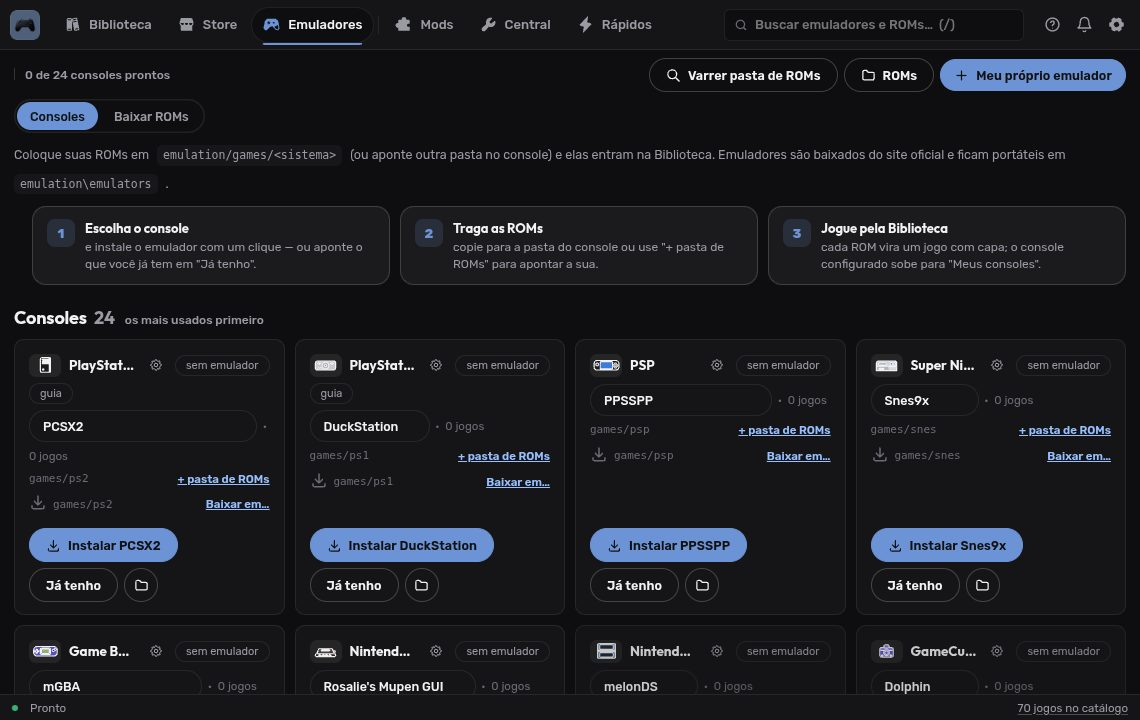
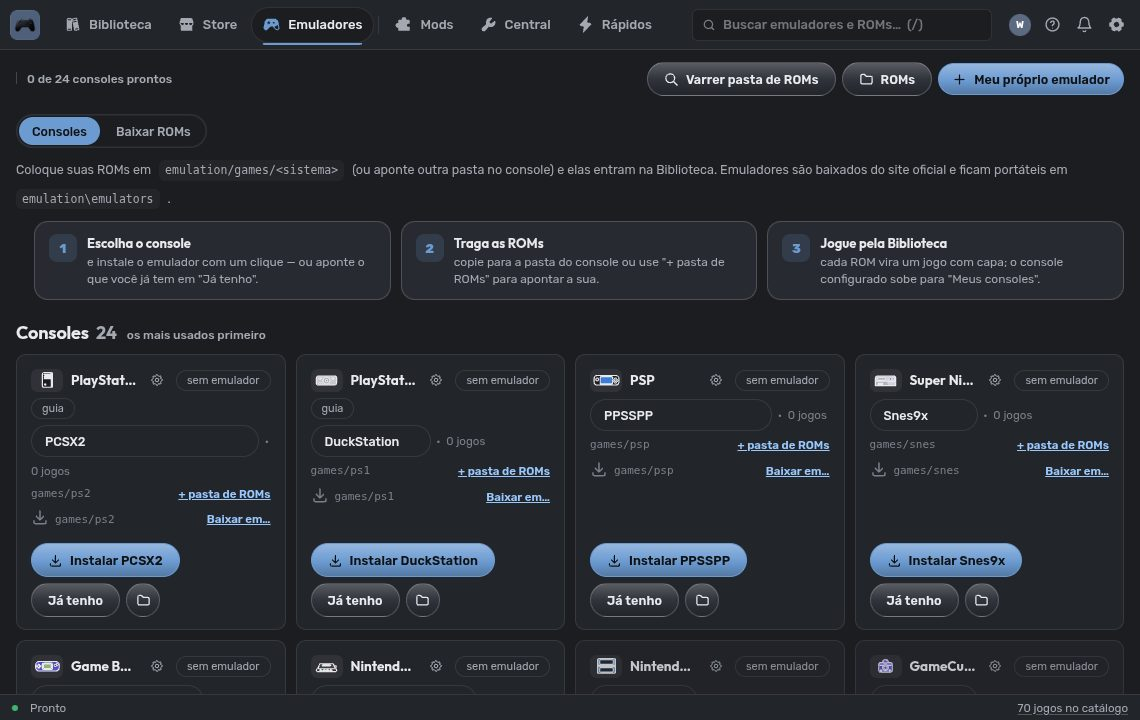
Ludrix 4.0.26

diff --git a/src/renderer/base.css b/src/renderer/base.css
@@ -246,6 +246,7 @@ html body.bs[data-face] .frow:first-child,html body.bs[data-face] :not(.frow)+.f
 html body.bs[data-face] .frow:not(:has(+.frow)){border-bottom-left-radius:var(--r);border-bottom-right-radius:var(--r)}
 html body.bs[data-face] .sec>:not(h3):not(p):not(.frow)+.frow{margin-top:12px}
 html body.bs[data-face] .frow .l{flex:1 1 140px;min-width:120px;display:flex;flex-direction:column;gap:2px}
+html body.bs[data-face] .frow[style*="flex-direction:column"] .l{flex:none;width:100%}
 html body.bs[data-face] .frow{flex-wrap:wrap}
 html body.bs[data-face] .frow .l b{font:500 13px/1.35 var(--font-text);color:var(--text)}
 html body.bs[data-face] .frow .l span{font-size:12px;color:var(--muted2);line-height:1.45;max-width:64ch}
@@ -472,18 +473,6 @@ html body.bs[data-face] .card .cov img{transition:opacity .25s ease-out}
 html body.bs[data-face] .rb,html body.bs[data-face] .tabs button,html body.bs[data-face] .stabs button{transition:background .15s,color .15s,border-color .15s}
 html body.bs[data-face] .sw::after{transition:transform .16s var(--ease),background .15s}
 html[data-anim="off"] body.bs[data-face] *{animation:none!important;transition:none!important}
-.fog{position:absolute;inset:0;z-index:0;overflow:hidden;pointer-events:none;contain:strict}
-html body.bs.fogon[data-face] .rail{position:relative;background:color-mix(in srgb,var(--bg2) 55%,transparent)}
-.fog i{position:absolute;top:0;bottom:0;left:0;width:calc(100% + 1200px);will-change:transform;-webkit-mask-repeat:repeat;mask-repeat:repeat}
-.fog i:nth-child(1){background:color-mix(in oklch,var(--accent) 80%,#fff);-webkit-mask-image:url(/ui/fog1.svg);mask-image:url(/ui/fog1.svg);-webkit-mask-size:600px 600px;mask-size:600px 600px;opacity:calc(var(--fog,.3) * .34);animation:fogA 80s linear infinite}
-.fog i:nth-child(2){background:color-mix(in oklch,var(--accent) 55%,#22d3ee);-webkit-mask-image:url(/ui/fog2.svg);mask-image:url(/ui/fog2.svg);-webkit-mask-size:1100px 1100px;mask-size:1100px 1100px;opacity:calc(var(--fog,.3) * .26);animation:fogB 130s linear infinite}
-@keyframes fogA{to{transform:translateX(-1200px)}}
-@keyframes fogB{from{transform:translateX(-1100px)}to{transform:translateX(0)}}
-html[data-light="1"] .fog i{mix-blend-mode:multiply}
-html[data-light="1"] .fog i:nth-child(1){background:var(--accent);opacity:calc(var(--fog,.3) * .24)}
-html[data-light="1"] .fog i:nth-child(2){opacity:calc(var(--fog,.3) * .18)}
-html.mono .fog{display:none}
-html[data-anim="off"] .fog i{animation:none!important}
 html body.bs[data-face] main{background:transparent}
 html body.bs.rfloat[data-face]{--side:240px;--fgap:10px}
 html body.bs.rfloat[data-face][data-layout=rail]{--side:86px}
@@ -715,3 +704,47 @@ html body.bs[data-face] .fview .seg.fsort button{height:26px;padding:0 10px;bord
 html body.bs[data-face] .fview .seg.fsort button:hover{color:var(--text);border-color:var(--line2)}
 html body.bs[data-face] .fview .seg.fsort button.on{background:var(--accent);border-color:var(--accent);color:var(--on-accent)}
 html body.bs[data-face] .fsb h6{margin:10px 4px 6px;font:600 11px var(--font-text);letter-spacing:.4px;text-transform:uppercase;color:var(--muted2)}
+
+html body.bs[data-face] .view{padding:12px 22px 32px}
+html body.bs[data-face]:is([data-layout=rail],[data-layout=top]) .view{padding:0 16px 28px}
+html body.bs[data-face]:is([data-layout=rail],[data-layout=top]) .h1{margin:0 -16px 8px;padding:10px 16px;gap:8px}
+html body.bs[data-face][data-layout=top] .h1{padding-top:12px}
+html body.bs[data-face] .h1 .qchips,html body.bs[data-face] .h1 .chips{gap:4px}
+html body.bs[data-face] .fchips{margin:2px 0 16px;gap:8px}
+html body.bs[data-face] .ggh{padding:12px 0 10px}
+html body.bs[data-face]:is([data-layout=rail],[data-layout=top]) .ggh{top:0;padding:12px 0 10px}
+html body.bs[data-face]:is([data-layout=rail],[data-layout=top]) .grid{gap:18px 12px;padding-top:4px}
+html body.bs[data-face] .grid+.ggh,html body.bs[data-face] .more+.ggh{margin-top:10px}
+html body.bs[data-face] .lsth{margin:6px 0 4px;padding:0 10px 8px 4px}
+html body.bs[data-face] .libwrap.pw .libmain .h1{padding-right:12px}
+html body.bs[data-face] .dclose{top:calc(var(--tb,0px) + var(--toph,0px) + 16px)}
+html body.bs[data-face] .dhead{gap:14px;padding-top:20px}
+html body.bs[data-face] .dhead .acts{margin-top:6px}
+html body.bs[data-face] .dmain{margin:36px 40px 0 36px}
+html body.bs[data-face] .dmain .dtabs{margin:0 0 22px}
+html body.bs[data-face] .dpane .desc p{margin:0 0 12px}
+html body.bs[data-face] .dpane .desc p:last-child{margin-bottom:0}
+html body.bs[data-face] .dsec{margin-top:26px}
+html body.bs[data-face] .dsec h3{margin-bottom:10px}
+html body.bs[data-face] .sec{margin-bottom:28px}
+html body.bs[data-face] .sec>h3{margin-bottom:12px}
+html body.bs[data-face] .sec>p{margin:-4px 0 14px}
+html body.bs[data-face] .frow{gap:20px}
+html body.bs[data-face] .frow .l{gap:3px}
+html body.bs[data-face]:is([data-layout=rail],[data-layout=top]) .gpanel .ghead{margin-top:18px}
+html body.bs[data-face]:is([data-layout=rail],[data-layout=top]) .gpanel .gkv{margin:12px 16px 0}
+html body.bs[data-face]:is([data-layout=rail],[data-layout=top]) .gpanel .gkv div{padding:8px 0}
+html body.bs[data-face] .gpanel .gtags{margin-top:8px}
+html body.bs[data-face] .toast{gap:12px}
+html body.bs.acr.acrdeep .card .cov{box-shadow:0 0 0 1px var(--line2)}
+html body.bs.acr.acrdeep :is(.frow,.sec .box,.gpanel,.fpanel,.modal .box,.bellpop,.ctx){background:var(--card-solid,var(--card))}
+html body.bs.acr.acrdeep :is(.h1,.ggh,.status,header.top,.rail){backdrop-filter:blur(18px) saturate(1.2);-webkit-backdrop-filter:blur(18px) saturate(1.2)}
+html body.bs.acr.acrdeep .card h4,html body.bs.acr.acrdeep .card .sub,html body.bs.acr.acrdeep .ggh b{text-shadow:0 1px 2px color-mix(in srgb,var(--bg-solid,var(--bg)) 70%,transparent)}
+
+html body.bs[data-face]{--g-top:color-mix(in srgb,var(--accent) 72%,#fff);--g-bot:color-mix(in srgb,var(--accent) 78%,#000);--g2-top:color-mix(in srgb,var(--card2) 80%,#fff);--g2-bot:color-mix(in srgb,var(--card2) 70%,#000)}
+html body.bs[data-face] .btn.p,html body.bs[data-face] .btn.g,html body.bs[data-face] .seg button.on,html body.bs[data-face] .fview .seg.fsort button.on{background:linear-gradient(180deg,var(--g-top),var(--accent) 55%,var(--g-bot))}
+html body.bs[data-face] .btn.s,html body.bs[data-face] .seg button,html body.bs[data-face] .h1 .btn.xs,html body.bs[data-face] .h1 .dd,html body.bs[data-face] .h1 .filt>.btn,html body.bs[data-face] .h1 .chip.on,html body.bs[data-face] .fview .seg.fsort button{background:linear-gradient(180deg,var(--g2-top),var(--card2) 50%,var(--g2-bot))}
+html body.bs[data-face] .btn.p:hover,html body.bs[data-face] .btn.g:hover{filter:brightness(1.07)}
+html body.bs[data-face] .btn.s:hover,html body.bs[data-face] .seg button:hover,html body.bs[data-face] .h1 .btn.xs:hover,html body.bs[data-face] .h1 .filt>.btn:hover{filter:brightness(1.12)}
+html body.bs[data-face] .btn:active,html body.bs[data-face] .seg button:active{filter:brightness(.94)}
+html body.bs[data-face]:is([data-layout=rail],[data-layout=top]) .h1 .btn.xs.p{background:linear-gradient(180deg,color-mix(in srgb,var(--text) 86%,var(--bg)),var(--text) 55%,color-mix(in srgb,var(--text) 82%,#000))}

diff --git a/src/renderer/settings.js b/src/renderer/settings.js
@@ -90,13 +90,13 @@ async function renderSettings(fresh) {
     <div class="frow"><div class="l"><b>Tamanho do texto</b><span>Só as letras, sem mexer no resto. Bom para ler de longe sem aumentar tudo</span></div>${cfgSel('text_size', [[-2, 'Bem menor'], [-1, 'Menor'], [0, 'Normal'], [1, 'Maior'], [2, 'Bem maior']], c.text_size || 0)}</div>
     <div class="frow"><div class="l"><b>Densidade</b><span>Compacto aproxima os cartões e reduz espaçamentos; útil em telas pequenas</span></div>${cfgSel('density', [['normal', 'Normal'], ['compact', 'Compacto']], c.density || 'normal')}</div>`], { p: 'Ajusta o tamanho de textos, botões e capas para qualquer tela, de um notebook 1366×768 a uma TV 4K. <b>Auto</b> acompanha o tamanho da janela.' }),
     efeitos: () => sec('efeitos', 'Efeitos', [`
-    ${c.os === 'windows' ? `<div class="frow"><div class="l"><b>Vidro fosco${restartTag('acrylic')}</b><span>Janela translúcida com desfoque do Windows 11 (acrílico), por trás de toda a interface. Pesa na placa de vídeo ao rolar a biblioteca; em Windows 10 ou com alto contraste fica opaco</span></div><button class="sw ${c.acrylic ? 'on' : ''}" onclick="setCfg({acrylic:!S.config.acrylic})"></button></div>` : ''}
+    ${c.os === 'windows' ? `<div class="frow"><div class="l"><b>Vidro fumê${restartTag('acrylic')}</b><span>O que está atrás da janela aparece borrado, como vidro fumê (acrílico do Windows 11). Pesa na placa de vídeo ao rolar a biblioteca; em Windows 10 ou com alto contraste fica opaco</span></div><button class="sw ${c.acrylic ? 'on' : ''}" onclick="setCfg({acrylic:!S.config.acrylic})"></button></div>
+    ${c.acrylic ? `<div class="frow"><div class="l"><b>Transparência do vidro</b><span>Quanto do fundo aparece. Acima de 50% os cartões e painéis ficam mais sólidos para o texto continuar legível</span></div><label class="zoom"><input type="range" min="0" max="70" step="2" value="${c.glass_alpha ?? 34}" oninput="S.config.glass_alpha=+this.value;applyGlass();this.nextElementSibling.textContent=this.value+'%'" onchange="setCfg({glass_alpha:+this.value})"><span class="mut" style="min-width:34px;text-align:right">${c.glass_alpha ?? 34}%</span></label></div>` : ''}` : ''}
     <div class="frow"><div class="l"><b>Cor de destaque</b><span>Botões, seleção e realces. "Do tema" usa a cor que o tema define${c.os === 'windows' ? '; "Do Windows" acompanha a cor de destaque em Configurações › Personalização' : ''}</span></div>
       <div style="display:flex;gap:6px;align-items:center"><div class="seg">${[['theme', 'Do tema'], c.os === 'windows' ? ['system', 'Do Windows'] : null, ['custom', 'Escolher']].filter(Boolean).map(([v, l]) => `<button class="${(c.accent_mode || 'theme') === v ? 'on' : ''}" onclick="setAccentMode('${v}')">${l}</button>`).join('')}</div>
       ${(c.accent_mode || 'theme') === 'custom' ? `<label class="lsw" title="Escolher cor"><input type="color" value="${esc(c.accent || cssVar('--accent') || '#6b93d6')}" oninput="S.config.accent=this.value;applyAccent()" onchange="setCfg({accent:this.value})"><span style="background:${esc(c.accent || cssVar('--accent'))}"></span></label>` : ''}</div></div>
     ${sw('accent_from_cover', 'Cor acompanha o jogo', 'Botões e realces tomam a cor dominante da capa do jogo selecionado ou aberto, com transição suave; volta à cor do tema ao sair')}
     ${sw('reduce_motion', 'Reduzir movimento', 'Corta transições e animações de uma vez, independente da configuração de animações do sistema')}
-    <div class="frow"><div class="l"><b>Névoa de cor</b><span>Névoa na cor de destaque, deslizando devagar atrás do conteúdo. Zero desliga</span></div><label class="zoom"><input type="range" min="0" max="100" step="5" value="${c.fog ?? 30}" oninput="S.config.fog=+this.value;applyFog()" onchange="setCfg({fog:+this.value})"></label></div>
     ${sw('high_contrast', 'Alto contraste', 'Bordas e textos mais fortes, sem transparência nem desfoque, foco bem marcado. Liga sozinho quando o Windows está em modo de alto contraste')}`]),
     cartoes: () => sec('cartoes', 'Cartões e listas', [`
     <div class="frow"><div class="l"><b>Biblioteca e Store</b><span>Com painel, clicar numa capa abre o jogo ao lado; grade mostra só as capas; lista mostra uma linha por jogo com ano, gênero, tamanho e tempo jogado</span></div>${cfgSel('view_mode', [['mural', 'Capas com painel lateral'], ['grid', 'Grade de capas'], ['list', 'Lista']], c.view_mode || 'mural')}</div>
@@ -233,7 +233,7 @@ function toggleAdv() {
 }
 const TAB_KEYS = {
   general: ['start_menu', 'file_assoc', 'win_notify', 'tray_enabled', 'tray_sleep', 'close_action', 'hotkey_enabled', 'popups', 'notify_sound', 'ui_sounds', 'ui_sounds_level', 'keymap'],
-  appearance: ['accent_from_cover', 'sofa_zoom', 'theme', 'theme_mode', 'face', 'accent', 'theme_schedule', 'theme_light_from', 'theme_light_to', 'frameless', 'status_position', 'nav_layout', 'clock', 'layout', 'nav', 'nav_hidden', 'nav_order', 'rail_icons', 'ui_scale', 'text_size', 'card_size', 'density', 'acrylic', 'animations', 'fog', 'fx_type', 'fx_intensity', 'glass', 'card_hover', 'reduce_motion', 'parallax', 'high_contrast'],
+  appearance: ['accent_from_cover', 'sofa_zoom', 'theme', 'theme_mode', 'face', 'accent', 'glass_alpha', 'theme_schedule', 'theme_light_from', 'theme_light_to', 'frameless', 'status_position', 'nav_layout', 'clock', 'layout', 'nav', 'nav_hidden', 'nav_order', 'rail_icons', 'ui_scale', 'text_size', 'card_size', 'density', 'acrylic', 'animations', 'fx_type', 'fx_intensity', 'glass', 'card_hover', 'reduce_motion', 'parallax', 'high_contrast'],
   library: ['home_spot', 'fav_first', 'game_backdrop', 'backdrop_blur', 'backdrop_dim', 'cover_slideshow', 'cover_slideshow_secs', 'view_mode', 'group_by', 'card_ribbons', 'card_origin', 'card_playtime', 'detail_art', 'auto_metadata', 'web_covers', 'auto_rename', 'watch_dirs', 'auto_scan_dirs'],
   play: ['discord_enabled', 'after_launch', 'launch_splash', 'pause_downloads_playing', 'nav_hide_playing', 'crash_watch', 'crash_mute', 'save_auto_backup', 'emu_no_ask', 'gamepad_enabled', 'gamepad_speed', 'gamepad_wake'],
   store: ['hero_enabled', 'store_hide_installed', 'store_auto_refresh', 'store_notify_new', 'taskbar_progress', 'keep_archive', 'concurrent_downloads', 'dl_max_down', 'dl_schedule', 'dl_from', 'dl_to', 'shortcut_ask', 'repack_auto_open', 'torrent_max_down', 'torrent_max_up', 'torrent_seed_after'],

diff --git a/src/renderer/app.js b/src/renderer/app.js
@@ -163,7 +163,7 @@ const I = {
 
 const mq = window.matchMedia('(prefers-color-scheme: light)');
 let currentTheme = 'dark';
-const DEFAULT_FACE = 'padrao';
+const DEFAULT_FACE = 'grafite';
 function faceInfo(id) { return (S.faces || []).find(f => f.id === id) || { id: id || DEFAULT_FACE, name: 'Ludrix', accent: '', layout: '' }; }
 function fileScheme() { const m = S.config.theme_mode || ''; return m === 'system' ? ((S.config.theme_schedule ? inLightWindow() : mq.matches) ? 'light' : 'dark') : m; }
 function applyTheme() {
@@ -340,7 +340,9 @@ function applyGlass() {
   if (S._glassLight !== want) { S._glassLight = want; api.post('/api/window', { cmd: 'scheme', light: want }); }
   if (!on) { for (const n of GLASS_VARS) { st.removeProperty('--' + n); st.removeProperty('--' + n + '-solid'); } return; }
   const cs = getComputedStyle(document.documentElement);
-  const A = light ? { bg: 64, panel: 72, 'logo-bg': 72 } : { bg: 66, panel: 74, 'logo-bg': 74 };
+  const t = Math.max(0, Math.min(70, Number(S.config.glass_alpha ?? 34))), bgA = 100 - t, pA = Math.min(100, bgA + 8), cA = Math.min(100, bgA + 18);
+  document.body.classList.toggle('acrdeep', t >= 50);
+  const A = { bg: bgA, panel: pA, 'logo-bg': pA, bg2: cA, card: cA, card2: cA };
   for (const n of GLASS_VARS) { const v = cs.getPropertyValue('--' + n).trim(); if (!v) continue; st.setProperty('--' + n + '-solid', v); if (n in A) st.setProperty('--' + n, `color-mix(in srgb, ${v} ${A[n]}%, transparent)`); else st.setProperty('--' + n, v); }
 }
 function bandMix(c, pct, base) {
@@ -2089,8 +2091,14 @@ function themesHtml(c) {
       ${cfgSel('theme', [['system', 'Sistema'], ['dark', 'Escuro'], ['light', 'Claro']], c.theme || 'system')}</div>
     ${(c.theme || 'system') === 'system' ? `<div class="frow"><div class="l"><b>Quando "Sistema"</b><span>Seguir o ${OSN()} troca junto com o modo claro/escuro dele; por horário usa as horas abaixo</span></div>
       ${cfgSel('theme_schedule', [[false, 'Seguir o ' + OSN()], [true, 'Por horário']], !!c.theme_schedule)}${c.theme_schedule ? `<span class="mut">claro das</span><input class="mi" style="width:70px" value="${esc(c.theme_light_from || '07:00')}" onchange="setCfg({theme_light_from:this.value})"><span class="mut">às</span><input class="mi" style="width:70px" value="${esc(c.theme_light_to || '19:00')}" onchange="setCfg({theme_light_to:this.value})">` : ''}</div>` : ''}
+    ${faceRowHtml(c)}
     ${themeListHtml(c)}
   </div>`;
+}
+function faceRowHtml(c) {
+  const cur = c.face || DEFAULT_FACE, light = document.documentElement.dataset.light === '1';
+  const card = f => { const sw = (f.swatch || {})[light ? 'light' : 'dark'] || ['#111', '#222']; return `<div class="thcard${cur === f.id ? ' on' : ''}" onclick="${cur === f.id ? '' : `pickFace(${jsq(f.id)})`}" title="${esc(f.description || '')}"><i class="thsw" style="${themeSwatch({ vars: { bg: sw[0], card: sw[1] }, accent: f.accent })}"></i><div class="tht"><b>${esc(f.name)}</b><small>${esc(f.description || '')}</small></div></div>`; };
+  return `<div class="frow" style="align-items:flex-start;flex-direction:column;gap:10px"><div class="l"><b>Cores de fundo</b><span>Vale para o claro e para o escuro</span></div><div class="thlist">${(S.faces || []).map(card).join('')}</div></div>`;
 }
 function themeListHtml(c) {
   const list = (S.themes || []).filter(t => t.id && t.id.startsWith('file:')), cur = c.theme || 'system', usingFile = cur.startsWith('file:');
@@ -2627,17 +2635,7 @@ function sessionCard(ev, g) {
 }
 function toastPlain(type, title, msg) { const t = document.createElement('div'); t.className = 'toast ' + type; t.innerHTML = `<div><b>${esc(title)}</b><span>${esc(msg || '')}</span></div><button class="x" title="Fechar">${I.x}</button>`; const box = $('#toasts'); box.appendChild(t); while (box.children.length > 5) box.firstElementChild.remove(); let left = 5000, tm, t0 = Date.now(); const go = () => { t0 = Date.now(); tm = setTimeout(() => { t.style.transition = '.3s'; t.style.opacity = '0'; setTimeout(() => t.remove(), 300); }, left); }; t.onmouseenter = () => { clearTimeout(tm); left = Math.max(1500, left - (Date.now() - t0)); }; t.onmouseleave = go; t.onclick = () => { clearTimeout(tm); t.remove(); }; go(); }
 
-function applyFog() {
-  const main = document.querySelector('main'), app = $('#app'); if (!main || !app) return;
-  let f = $('#fog');
-  const v = Math.max(0, Math.min(100, Number(S.config.fog ?? 0)));
-  document.body.classList.toggle('fogon', !!v && !S.config.high_contrast);
-  if (!v || S.config.high_contrast) { if (f) f.remove(); return; }
-  if (!f) { f = document.createElement('div'); f.id = 'fog'; f.className = 'fog'; f.setAttribute('aria-hidden', 'true'); f.innerHTML = '<i></i><i></i>'; app.insertBefore(f, app.firstChild); }
-  f.style.setProperty('--fog', (v / 100).toFixed(2));
-}
 function applyAnim() {
-  applyFog();
   const mode = S.config.reduce_motion ? 'off' : (S.config.animations || 'full');
   if (document.documentElement.dataset.anim !== mode) document.documentElement.dataset.anim = mode;
   applyPlx();

diff --git a/src/renderer/themes/grafite/face.css b/src/renderer/themes/grafite/face.css
@@ -1,0 +1,29 @@
+:root{--r:10px}
+body[data-face=grafite]{--p-dim:color-mix(in srgb,var(--accent) 14%,transparent);--p-ink:var(--accent2)}
+body[data-face=grafite],body[data-face=grafite] #app,body[data-face=grafite] main{background:var(--bg)}
+body[data-face=grafite] #fx{display:none}
+body[data-face=grafite] main.glass::before,body[data-face=grafite] .rail.glass::before{background:transparent;backdrop-filter:none;-webkit-backdrop-filter:none}
+body[data-face=grafite] .titlebar{background:var(--bg)}
+body[data-face=grafite] .rail{backdrop-filter:none;-webkit-backdrop-filter:none}
+body[data-face=grafite] .search input:focus{border-color:var(--text);box-shadow:none}
+body[data-face=grafite] .search kbd{display:none}
+body[data-face=grafite] .chip.on{background:var(--text);border-color:var(--text);color:var(--bg)}
+body[data-face=grafite] .btn.p,body[data-face=grafite] .btn.g{background:var(--accent);border-color:var(--accent);color:var(--on-accent)}
+body[data-face=grafite] .btn.p:hover,body[data-face=grafite] .btn.g:hover{filter:brightness(1.08)}
+body[data-face=grafite] .btn.d{background:transparent;border-color:var(--red);color:var(--red)}
+body[data-face=grafite] .card .rib{background:var(--accent);color:var(--on-accent)}
+body[data-face=grafite] .frow{border-bottom:1px solid var(--line);border-radius:0}
+body[data-face=grafite] .ctx button:hover{background:var(--text);color:var(--bg)}
+body[data-face=grafite] .ctx button:hover svg{color:var(--bg)}
+body[data-face=grafite] .sw.on{background:var(--accent);border-color:var(--accent)}
+body[data-face=grafite] .sw.on::after{background:var(--on-accent)}
+body[data-face=grafite] .track{background:var(--card2);height:6px;border-radius:3px}
+body[data-face=grafite] .track i{background:var(--accent);border-radius:3px}
+body[data-face=grafite] .status #stext{color:var(--text)}
+body[data-face=grafite] .detail{background:var(--bg)}
+body[data-face=grafite] .dtabs .dtab.on,body[data-face=grafite] .tabs .tab.on{color:var(--text);border-bottom-color:var(--text)}
+body[data-face=grafite] #view.qf .sec.qhit,body[data-face=grafite] #view.qf .tiles.qhit{outline-color:color-mix(in srgb,var(--accent) 55%,transparent)}
+body[data-face=grafite] ::-webkit-scrollbar{width:10px}
+body[data-face=grafite] ::-webkit-scrollbar-thumb{background:var(--card2);border:3px solid var(--bg);border-radius:5px}
+body[data-face=grafite] ::-webkit-scrollbar-thumb:hover{background:var(--muted2)}
+html[data-light="1"] body[data-face=grafite] .card{background:var(--card)}

diff --git a/src/main/store.ts b/src/main/store.ts
@@ -9,7 +9,7 @@ const DEFAULT_CONFIG = {
     native: true,
     theme: 'dark',
     theme_mode: '',
-    face: 'padrao',
+    face: 'grafite',
     accent: '',
     games_dir: '',
     shortcut_ask: true,
@@ -89,8 +89,8 @@ const DEFAULT_CONFIG = {
     look: 0,
     card_hover: 'lift',
     reduce_motion: false,
-    fog: 30,
     acrylic: false,
+    glass_alpha: 34,
     parallax: true,
     high_contrast: false,
     clock: 'off',
@@ -225,7 +225,7 @@ function coerce(key, value, def) {
 }
 const PROFILE_KEYS = new Set([
     'theme', 'theme_mode', 'face', 'accent', 'accent_from_cover', 'accent_mode', 'theme_schedule', 'theme_light_from', 'theme_light_to',
-    'look', 'glass', 'fog', 'fx_type', 'fx_intensity', 'animations', 'reduce_motion', 'parallax', 'high_contrast', 'card_hover',
+    'look', 'glass', 'glass_alpha', 'fx_type', 'fx_intensity', 'animations', 'reduce_motion', 'parallax', 'high_contrast', 'card_hover',
     'ui_scale', 'text_size', 'density', 'card_size', 'view_mode', 'list_cols', 'card_ribbons', 'card_playtime', 'card_origin', 'cover_slideshow', 'cover_slideshow_secs',
     'game_backdrop', 'backdrop_blur', 'backdrop_dim', 'detail_art', 'hero_enabled', 'home_spot', 'fav_first', 'store_hide_installed',
     'group_by', 'sort_by', 'group_store', 'sort_store', 'filter_panel', 'filter_presets', 'settings_adv',
@@ -302,8 +302,9 @@ class Store {
     static OVERLAY_STEPS: [number, Record<string, any>][] = [
         [13, { home_spot: false, card_origin: false, detail_art: 'off' }],
         [14, { nav_layout: 'top', view_mode: 'mural' }],
+        [15, { face: 'grafite' }],
     ];
-    static OVERLAY_LOOK = 14;
+    static OVERLAY_LOOK = 15;
     writeOverlay() {
         if (!this.profiles.active)
             return;
@@ -512,6 +513,7 @@ class Store {
                     this.config.nav_layout = 'top';
                     this.config.view_mode = 'mural';
                 }],
+            [15, () => { if (this.config.face === 'padrao') this.config.face = 'grafite'; }],
         ];
         for (const [target, fn] of (steps as any)) {
             if (Number(this.config.look || 0) < target) {

diff --git a/src/main/themes.ts b/src/main/themes.ts
@@ -8,10 +8,11 @@ import * as sign from './crypto';
 export const THEME_VARS = ['bg', 'bg2', 'panel', 'card', 'card2', 'line', 'line2', 'text', 'muted', 'muted2', 'green', 'green2', 'red', 'amber',
     'shadow', 'glow1', 'glow2', 'glow3', 'ph-from', 'ph-to', 'img-fade'];
 
-export const FACES: Record<string, { name: string; description: string; accent: string; layout: string }> = {
-    padrao: { name: 'Padrão', description: 'Fundo preto ou branco, cor sólida e linha fina; azul só no Jogar e no que está selecionado.', accent: '', layout: 'side' },
+export const FACES: Record<string, { name: string; description: string; accent: string; layout: string; swatch: { dark: string[]; light: string[] } }> = {
+    padrao: { name: 'Padrão', description: 'Fundo preto ou branco, cor sólida e linha fina; azul só no Jogar e no que está selecionado.', accent: '', layout: 'side', swatch: { dark: ['#0e0e10', '#1b1b1e'], light: ['#ffffff', '#f5f5f6'] } },
+    grafite: { name: 'Grafite', description: 'Cinza médio no escuro, cinza claro com cartões brancos no claro.', accent: '#6c9bd2', layout: 'side', swatch: { dark: ['#1b1d21', '#272a30'], light: ['#e7e9ee', '#ffffff'] } },
 };
-export const DEFAULT_FACE = 'padrao';
+export const DEFAULT_FACE = 'grafite';
 const SLUG = /^[a-z0-9][a-z0-9._-]{0,60}$/;
 const THEME_FILES = /^(theme\.json|extra\.css|wallpaper\.(jpg|jpeg|png|webp)|preview\.(png|jpg|jpeg|webp)|thumb\.png|LEIA-?ME\.txt|README\.(txt|md)|[A-Za-z0-9_.-]+\.(woff2|woff|ttf|png|webp|svg))$/i;
 

diff --git a/src/renderer/detail.js b/src/renderer/detail.js
@@ -1,3 +1,4 @@
+function paras(t) { return String(t).split(/\n+/).map(x => x.trim()).filter(Boolean).map(x => `<p>${esc(x)}</p>`).join(''); }
 function renderDetail() {
   const d = S.det; if (!d) return; const key = d.key, job = S.jobs[key], m = d.meta || {};
   const isRom = key.startsWith('rom:'), isRecomp = d.kind === 'recomp', isLocal = d.kind === 'local', live = S.sessions && S.sessions[key];
@@ -69,7 +70,7 @@ function renderDetail() {
       ${srcs}
       ${dtabsHtml(d, m)}
       <div class="dpane ${(S.dtab || 'about') === 'about' ? 'on' : ''}" data-pane="about">
-      <div class="desc" style="margin-top:14px">${esc(m.summary || d.description || 'Sem descrição. Clique em "Buscar metadados".')}</div>
+      <div class="desc" style="margin-top:14px">${paras(m.summary || d.description || 'Sem descrição. Clique em "Buscar metadados".')}</div>
       <div class="dsec"><h3>INFORMAÇÕES</h3><div class="kv">${kv.map(([k, v]) => `<b>${k}</b><span>${['Wikipedia', 'GOG', 'Steam', 'Nome original', 'Capa', 'Link', 'Notas', 'Tamanho', 'Para você'].includes(k) ? v : esc(v)}</span>`).join('')}</div></div>
       </div>
       <div class="dpane ${S.dtab === 'files' ? 'on' : ''}" data-pane="files">${filesHtml(key, d, files)}</div>

diff --git a/src/renderer/app.css b/src/renderer/app.css
@@ -195,7 +195,7 @@ body.compact .card .sub{display:none}
 .pill.ok{color:var(--green2);border-color:color-mix(in srgb,var(--green) 35%,transparent);background:color-mix(in srgb,var(--green) 10%,transparent)}
 .pill.ac{color:var(--accent2);border-color:color-mix(in srgb,var(--accent) 35%,transparent);background:color-mix(in srgb,var(--accent) 10%,transparent)}
 .pill.warn{color:var(--amber);border-color:color-mix(in srgb,var(--amber) 35%,transparent);background:color-mix(in srgb,var(--amber) 10%,transparent)}
-.desc{color:var(--muted);font-size:13.5px;line-height:1.65;white-space:pre-wrap;user-select:text;max-width:720px}
+.desc{color:var(--muted);font-size:13.5px;line-height:1.65;user-select:text;max-width:720px}
 .dtabs{margin:4px 0 0}.dtabs button .n{display:inline-block;min-width:16px;padding:0 5px;margin-left:4px;border-radius:8px;background:color-mix(in srgb,var(--accent) 22%,transparent);color:var(--text);font-size:10.5px;line-height:16px}
 .dpane{display:none}.dpane.on{display:block}
 .shots{display:grid;grid-template-columns:repeat(auto-fill,minmax(220px,1fr));gap:10px;margin-top:14px;max-width:820px}

diff --git a/src/renderer/themes/grafite/dark.css b/src/renderer/themes/grafite/dark.css
@@ -1,0 +1,27 @@
+:root{
+  --bg:#1b1d21;
+  --bg2:#22252a;
+  --panel:#22252a;
+  --card:#272a30;
+  --card2:#30343b;
+  --line:rgba(255,255,255,.09);
+  --line2:rgba(255,255,255,.18);
+  --text:#e8eaed;
+  --muted:#a3a8b1;
+  --muted2:#7a8089;
+  --green:#3fb573;
+  --green2:#66d194;
+  --red:#ff6670;
+  --amber:#f0b64e;
+  --shadow:none;
+  --glow1:transparent;
+  --glow2:transparent;
+  --glow3:transparent;
+  --ph-from:#30343b;
+  --ph-to:#272a30;
+  --img-fade:rgba(27,29,33,.94);
+  --logo-bg:#22252a;
+  --mono:#e8eaed;
+  --mono2:#a3a8b1;
+  color-scheme:dark;
+}

diff --git a/src/renderer/themes/grafite/light.css b/src/renderer/themes/grafite/light.css
@@ -1,0 +1,27 @@
+:root{
+  --bg:#e7e9ee;
+  --bg2:#f3f4f7;
+  --panel:#f3f4f7;
+  --card:#ffffff;
+  --card2:#eef0f4;
+  --line:rgba(20,24,34,.12);
+  --line2:rgba(20,24,34,.24);
+  --text:#1a1d24;
+  --muted:#5a6170;
+  --muted2:#848b99;
+  --green:#15935f;
+  --green2:#0f7a4e;
+  --red:#d63848;
+  --amber:#a86f00;
+  --shadow:none;
+  --glow1:transparent;
+  --glow2:transparent;
+  --glow3:transparent;
+  --ph-from:#eef0f4;
+  --ph-to:#e1e4ea;
+  --img-fade:rgba(231,233,238,.95);
+  --logo-bg:#1a1d24;
+  --mono:#1a1d24;
+  --mono2:#5a6170;
+  color-scheme:light;
+}

diff --git a/src/main/backend.ts b/src/main/backend.ts
@@ -610,7 +610,7 @@ class Backend {
         }
         return { game: pick };
     }
-    RESTART_KEYS: Record<string, string> = { frameless: 'Janela sem moldura', acrylic: 'Vidro fosco', tray_enabled: 'Ícone na bandeja', torrent_enabled: 'Suporte a torrent' };
+    RESTART_KEYS: Record<string, string> = { frameless: 'Janela sem moldura', acrylic: 'Vidro fumê', tray_enabled: 'Ícone na bandeja', torrent_enabled: 'Suporte a torrent' };
     safeMode = false;
     safeSaved: any = null;
     rolledBack: any = null;

diff --git a/src/main/diag.ts b/src/main/diag.ts
@@ -6,7 +6,7 @@ import * as P from './paths';
 import * as log from './log';
 import { DEFAULT_CONFIG } from './store';
 
-export const SAFE_KEYS = ['theme', 'face', 'accent', 'layout', 'nav', 'custom', 'animations', 'fog', 'fx_type',
+export const SAFE_KEYS = ['theme', 'face', 'accent', 'layout', 'nav', 'custom', 'animations', 'fx_type',
     'fx_intensity', 'glass', 'ui_scale', 'density', 'rail_icons', 'hero_enabled'];
 const MIN_FREE = 512 * 1024 * 1024;
 const WIN = process.platform === 'win32';
